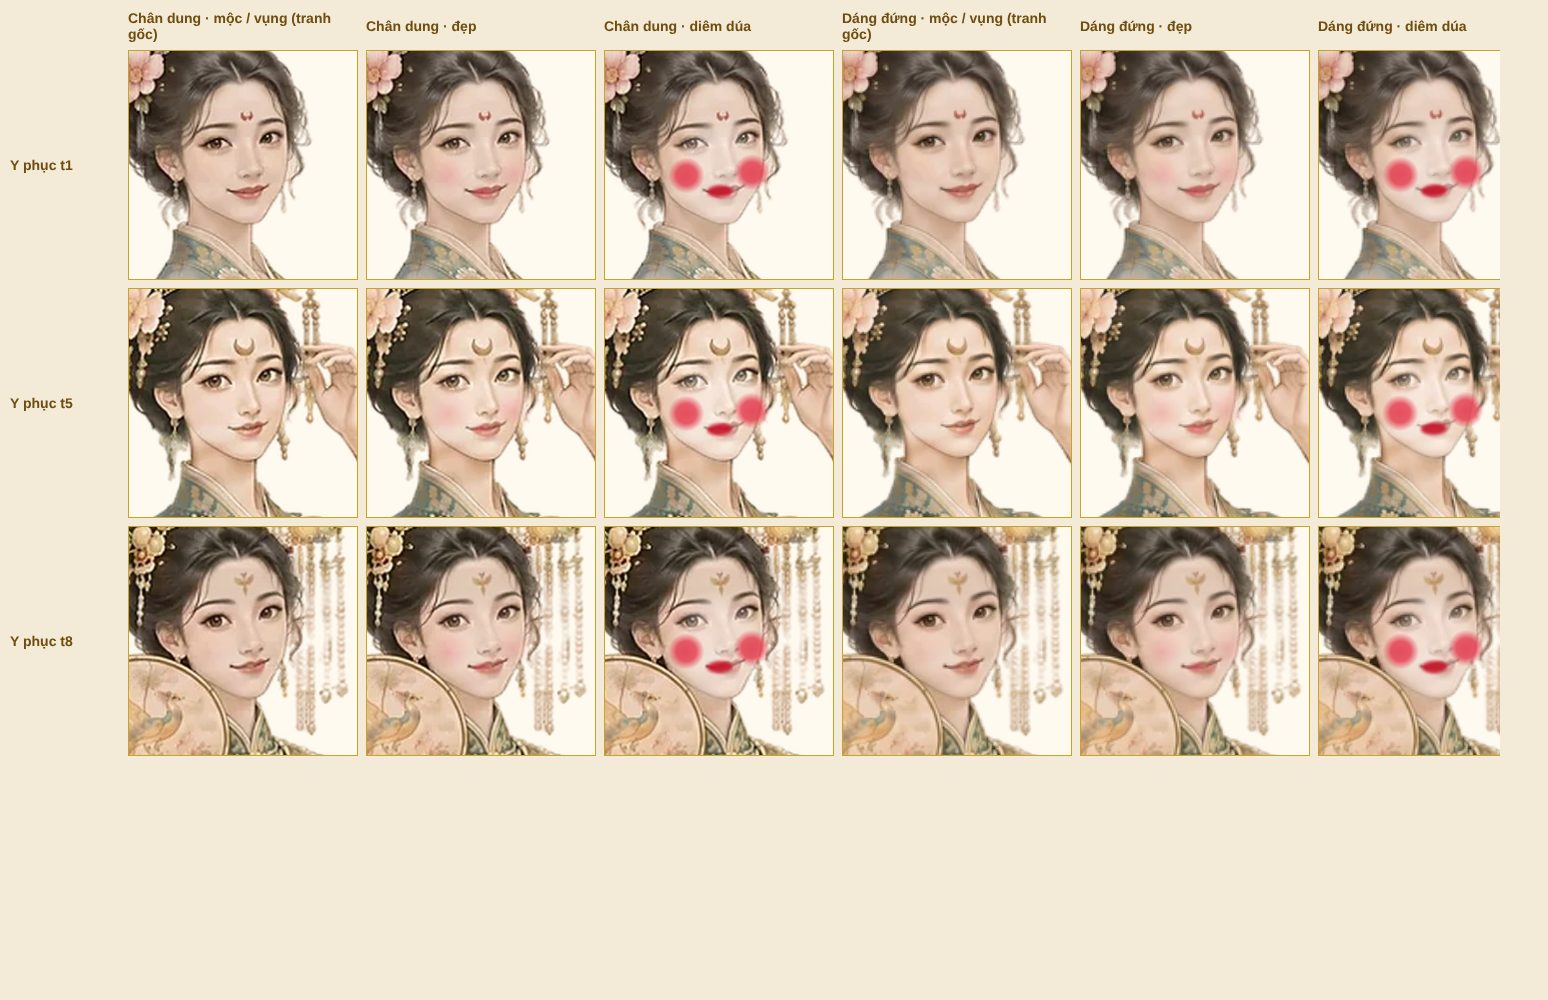
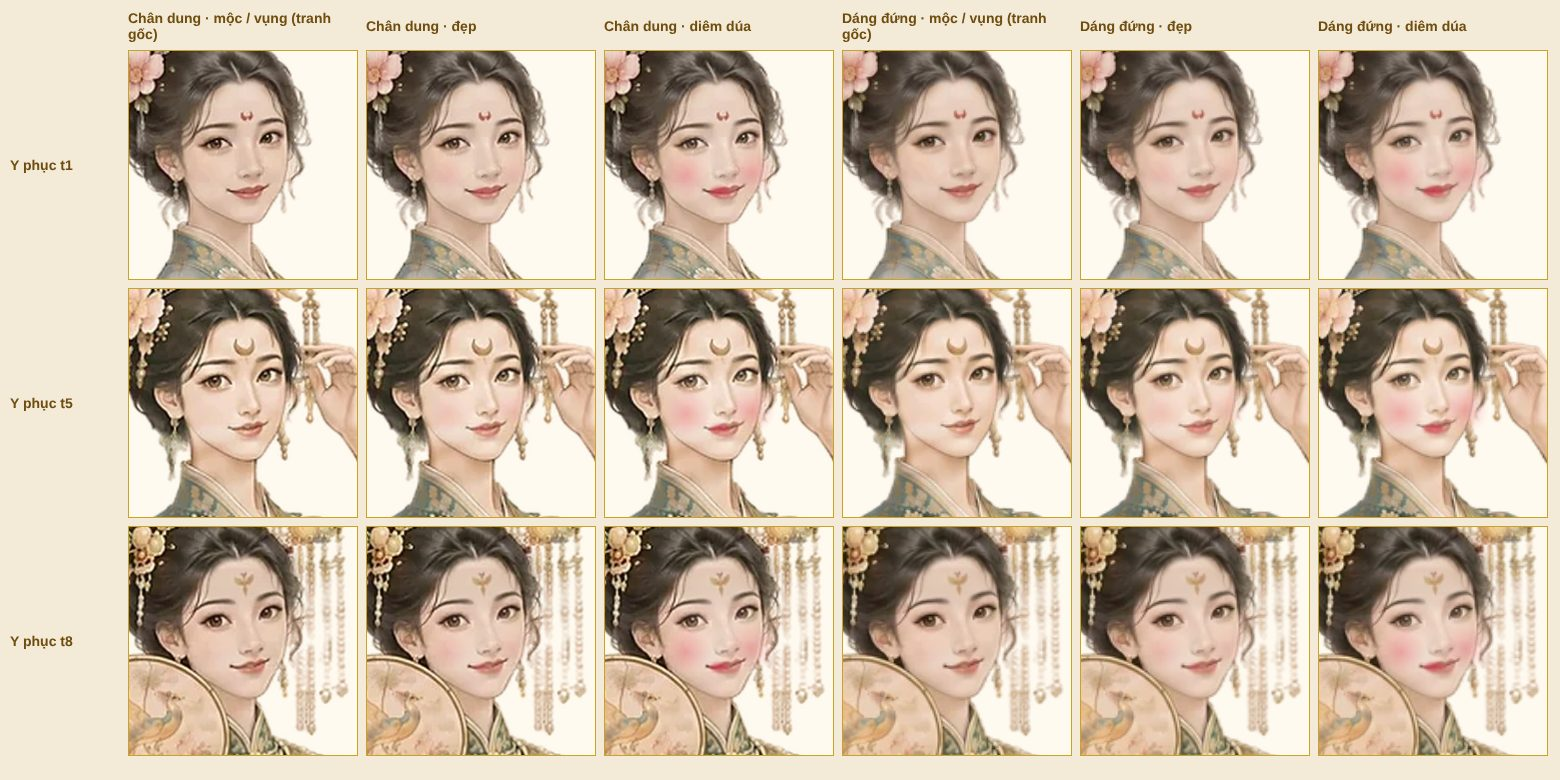
Điểm trang: dung nhan theo ý sếp — 'đẹp' nhẹ tự nhiên, 'diêm dúa' = đẹp đậm hơn chút (không hề hề); tờ mẫu mới; chip ngắn không tràn; chạm chip không mở bảng Tư chất; PROGRESS_toilette, sổ cũ mk-oldsave2, toilfit --extend (t5–t8, lãnh cung)
Claude-Session: https://claude.ai/code/session_01V1ZZH1F24tkuejhCvtXqV8

diff --git a/dev/build/jtoil.js b/dev/build/jtoil.js
@@ -146,16 +146,17 @@ function toilCard(){const occ=toilOcc().map(o=>o.n.toLowerCase()).join(", ");
 (function(){const d0=deal;deal=function(){const r=d0.apply(this,arguments);try{if(Array.isArray(deck)&&toilOn(S)&&(S.buoi||0)===0&&!toilToday(S)&&!deck.some(a=>a.toil))deck.unshift(toilCard())}catch(e){console.error(e)}return r}})();
 /* the chip "Hôm nay: y phục hợp dịp · trang điểm đẹp" (k3 top bar row, from #hud2) */
 function toilChip(){if(!toilOn(S))return null;const rec=toilToday(S);
- if(!rec)return(S.buoi||0)===0?{t:"Hôm nay: chưa điểm trang",c:""}:{t:"Hôm nay: mặt mộc",c:""};
+ if(!rec)return(S.buoi||0)===0?{t:"Chưa điểm trang",full:"Hôm nay: chưa điểm trang",c:""}:{t:"Hôm nay mặt mộc",full:"Hôm nay: mặt mộc",c:""};
  const bad=rec.dv==="giandi"||rec.dv==="photruong"||rec.dv==="vuot"||rec.dv==="tang"||!rec.makeup||toilTier(rec.score)==="vung";
- const mk=rec.makeup?(rec.look==="diem"?"diem":toilTier(rec.score)):"moc";return{t:`Hôm nay: y phục ${TOIL_DV[rec.dv]||"như hôm qua"} · ${rec.makeup?"trang điểm "+TOIL_MK[mk]:"mặt mộc"}`,c:bad||mk==="diem"?"hot":"ok"}}
+ const mk=rec.makeup?(rec.look==="diem"?"diem":toilTier(rec.score)):"moc";const dv=TOIL_DV[rec.dv]||"như hôm qua";return{t:`Y phục ${dv} · ${rec.makeup?"trang điểm "+TOIL_MK[mk]:"mặt mộc"}`,full:`Hôm nay: y phục ${dv} · ${rec.makeup?"trang điểm "+TOIL_MK[mk]:"mặt mộc"}`,c:bad||mk==="diem"?"hot":"ok"}}
 /* the k3 top row (jk3 k3Stage) rebuilds #k3tt from #hud2's state chips (K3_STATE is private to jk3): the chip joins line 1 after each rebuild */
 function toilChipPaint(){try{const tt=document.getElementById("k3tt");if(!tt)return;const l1=tt.querySelector(".k3l1");const c=S&&toilChip();const old=tt.querySelector('[data-k3="toil"]');
- if(!c||!l1){if(old)old.remove();return}const h=`<button type="button" class="k3r ${c.c}" data-k3="toil" title="${c.t} · chạm để xem"><span class="k3l">${c.t}</span></button>`;
+ if(!c||!l1){if(old)old.remove();return}const h=`<button type="button" class="k3r ${c.c}" data-k3="toil" title="${c.full||c.t} · chạm để xem" aria-label="${c.full||c.t}"><span class="k3l">${c.t}</span></button>`;
  if(old&&old.outerHTML===h)return;if(old)old.remove();l1.insertAdjacentHTML("beforeend",h)}catch(e){}}
 (function(){let mo=null;const hook=()=>{const tt=document.getElementById("k3tt");if(!tt||mo)return;mo=new MutationObserver(()=>{if(!tt.querySelector('[data-k3="toil"]'))toilChipPaint()});mo.observe(tt,{childList:true,subtree:true})};
  if(typeof renderHUD==="function"){const r0=renderHUD;renderHUD=function(){const r=r0.apply(this,arguments);hook();toilChipPaint();return r}}})();
-document.addEventListener("click",e=>{const b=e.target.closest&&e.target.closest('[data-k3="toil"],[data-hx="toil"]');if(!b)return;e.stopImmediatePropagation();e.preventDefault();
+/* on window (capture): jk3's own top-row click handler is a document capture listener registered earlier */
+window.addEventListener("click",e=>{const b=e.target.closest&&e.target.closest('[data-k3="toil"],[data-hx="toil"]');if(!b)return;e.stopImmediatePropagation();e.preventDefault();
  if(toilCanStart()){const i=Array.isArray(deck)?deck.findIndex(a=>a&&a.toil&&!a.done):-1;if(i>=0){act(i);return}if(!can(BAL.toil.khac))return;spend(BAL.toil.khac);toilOpen();return}
  const rec=toilToday(S);try{kpPop(b,rec?`<p>Sáng nay ta điểm trang: y phục ${TOIL_DV[rec.dv]}, ${rec.makeup?"trang điểm "+TOIL_MK[toilTier(rec.score)]+" ("+rec.score+" phần)":"để mặt mộc"}.</p><p class="past">Người gặp ta hôm nay nhìn theo nết mình; thẻ việc ghi trước.</p>`
   :`<p>Hôm nay ta chưa điểm trang: mặc như hôm qua, mặt mộc.</p><p class="past">Mỗi buổi sáng có việc “Điểm trang” trong Hành sự (1 khắc).</p>`)}catch(x){}},true);
@@ -311,8 +312,9 @@ window.toilOpen=toilOpen;window.toilDress=toilDress;window.toilFx=toilFx;window.
 const TOIL_FIT={url:"img/toil-fit.json",fit:null,_ld:0,load(){if(this.fit||this._ld)return;this._ld=1;try{fetch(this.url).then(r=>r.ok?r.json():null).then(j=>{if(j){TOIL_FIT.fit=j;try{if(typeof S!=="undefined"&&S&&!Q.length)render()}catch(e){}}}).catch(()=>{})}catch(e){}}};
 try{TOIL_FIT.load()}catch(e){}
 const TOIL_LOOKS={
- dep:{skin:[255,250,244,.17,.62],blush:[238,120,138,.30,.17,.0],lip:[206,52,72,.42,.075,.034],powder:0},
- diem:{skin:[255,255,255,.34,.6],blush:[226,38,62,.78,.15,.55],lip:[196,8,36,.88,.105,.05],powder:1}};
+ /* owner 15/11 on the sheet: "đẹp" subtle and natural; "diêm dúa" = the old đẹp a little stronger (pretty, just noticeably overdone, never a clown) */
+ dep:{skin:[255,250,244,.13,.62],blush:[238,128,144,.21,.165,0],lip:[206,60,80,.33,.072,.032],powder:0},
+ diem:{skin:[255,252,248,.24,.64],blush:[236,104,124,.40,.20,0],lip:[198,40,64,.56,.084,.038],powder:0}};
 function toilLookOfP(p){try{if(p!==S||!S)return null;const r=toilToday(S);return r&&r.makeup&&r.look?r.look:null}catch(e){return null}}
 const TOIL_SVGC={};
 function toilMakeupSvg(file,look){const L=TOIL_LOOKS[look];const v=TOIL_FIT.fit&&TOIL_FIT.fit[file];if(!L||!v)return"";const key=file+"|"+look;if(TOIL_SVGC[key])return TOIL_SVGC[key];

diff --git a/dev/test/toilette.js b/dev/test/toilette.js
@@ -24,13 +24,13 @@ fs.mkdirSync(DIR,{recursive:true});
  out.before=await cardTxt();
   await p.screenshot({path:`${DIR}/toil-${tag}-0-morning.jpg`,quality:70});
  /* 2. tap the chip → the dress game */
- await p.click('#k3tt [data-k3="toil"]');await p.waitForSelector('#kg82 .toilw');await p.waitForTimeout(900);
+ await p.click('#k3tt [data-k3="toil"]');await p.waitForSelector('#kg82 .toilw');await p.waitForFunction(()=>[...document.querySelectorAll('#kg82 img')].every(i=>i.complete),null,{timeout:90000}).catch(()=>{});await p.waitForTimeout(600);
  await p.screenshot({path:`${DIR}/toil-${tag}-1-dress.jpg`,quality:70});
  /* put on something from the bag if any (tap the first non-worn item) */
  out.bag=await p.evaluate(()=>document.querySelectorAll('#kg82 [data-kinvkey="toil"][data-kinvi]').length);
  await p.click('#toilok');await p.waitForTimeout(400);out.dress=await p.evaluate(()=>TOIL.st&&TOIL.st.dv);
  await p.screenshot({path:`${DIR}/toil-${tag}-2-verdict.jpg`,quality:70});
- await p.evaluate(()=>{TOIL.clock=+(new URLSearchParams(location.search).get('clock')||12)});await p.click('#toilmk');await p.waitForTimeout(1200);
+ await p.evaluate(()=>{TOIL.clock=+(new URLSearchParams(location.search).get('clock')||12)});await p.click('#toilmk');await p.waitForFunction(()=>{const i=kg82Img('chai-bg');return i.complete&&i.naturalWidth},null,{timeout:90000}).catch(()=>{});await p.waitForTimeout(2500);
  /* 3. kẻ mày: drag along each guide */
  const geo=await p.evaluate(()=>({b:TOIL.geo.brows()}));
  for(const L of geo.b){await p.mouse.move(L[0].x,L[0].y);await p.mouse.down();for(const q of L.filter((_,i)=>i%2===0||i===L.length-1))await p.mouse.move(q.x,q.y,{steps:2});await p.mouse.up()}
@@ -60,6 +60,6 @@ fs.mkdirSync(DIR,{recursive:true});
  /* 5. skipping does not block: next buổi with no toilette */
  out.skip=await p.evaluate(()=>{S.toilette=null;const b=S.buoi;try{nextBuoi()}catch(e){return 'err '+e.message}return {from:b,to:S.buoi,q:Q.length}});
  /* 6. old save loads */
- if(OLD){const txt=fs.readFileSync(OLD,'utf8');out.old=await p.evaluate(t=>{try{deser(t);render();return{ok:!!S,turn:S.turn,chip:typeof toilChip==='function'?toilChip():null,card:deck.some(a=>a.toil)}}catch(e){return 'err '+e.message}},txt)}
+ if(OLD){const txt=fs.readFileSync(OLD,'utf8');out.old=await p.evaluate(t=>{try{quiet=true;deser(JSON.parse(t));quiet=false;Q.length=0;S.buoi=0;used=0;deal();render();return{ok:!!S,turn:S.turn,chip:typeof toilChip==="function"?toilChip():null,card:deck.some(a=>a.toil),look:toilLookOfP(S)}}catch(e){return 'err '+e.message}},txt)}
  out.overflow=await p.evaluate(()=>document.documentElement.scrollWidth>innerWidth+1);
  out.errs=errs;console.log(JSON.stringify(out,null,1));await b.close()})().catch(e=>{console.error(e);process.exit(1)});

diff --git a/dev/test/mk-oldsave2.js b/dev/test/mk-oldsave2.js
@@ -1,0 +1,10 @@
+/* an OLD save (a build without the module under test): start a consort life, play a few buổi, write ser() to <out.json>.
+   usage: node dev/test/mk-oldsave2.js <url of the old build> <out.json> */
+const {chromium}=require('playwright');const fs=require('fs');const [,,URL,OUT]=process.argv;
+(async()=>{const b=await chromium.launch();const ctx=await b.newContext({viewport:{width:755,height:1000},serviceWorkers:'block'});await ctx.route(u=>/ctmload=1/.test(String(u)),r=>r.abort());const p=await ctx.newPage();
+ const errs=[];p.on('pageerror',e=>errs.push(e.message));await p.goto(URL,{waitUntil:'domcontentloaded'});await p.waitForFunction(()=>typeof start==='function');
+ await p.evaluate(()=>{try{localStorage.clear()}catch(e){}document.getElementById('title').hidden=true;new MutationObserver(()=>document.querySelectorAll('.kroul,#kload').forEach(e=>e.remove())).observe(document.body,{childList:true})});
+ for(let i=0;i<15;i++){await p.evaluate(()=>{window.S0=typeof S!=='undefined'?S:null;try{store.set(NL_KEY,null)}catch(e){}start()});await p.waitForFunction(()=>typeof S!=='undefined'&&S&&S!==window.S0&&S.origin,null,{timeout:60000});
+  if(await p.evaluate(()=>S.origin.k!=='cnv'&&!isSrv()))break}
+ const d=await p.evaluate(()=>{Q.length=0;S.inv.push({k:'nhansam'});for(let i=0;i<3;i++){Q.length=0;try{nextBuoi()}catch(e){}}Q.length=0;return JSON.stringify(ser())});
+ fs.writeFileSync(OUT,d);console.log(JSON.stringify({len:d.length,errs:errs.slice(0,3)}));await b.close()})();

diff --git a/dev/figwork/toilfit.py b/dev/figwork/toilfit.py
@@ -132,6 +132,9 @@ def extend():
     idx = json.loads(get(BASE + "_index.json"))
     files = set(f[0][4:] for f in idx["files"])
     pors = sorted(f for f in files if re.match(r"por-(consort|maid)-", f) and f not in out)
+    # the player's own pictures first: consort faces in consort dress (t5–t8 above the measured t1–t4) and lãnh cung; "--all" adds cung nữ dress,
+    # origin pictures (kc/ngheo) and the maid identities
+    if "--all" not in sys.argv: pors = [f for f in pors if re.match(r"por-consort-c\d+-t([5-8]|cold)-a\d+\.webp$", f)]
     only = sys.argv[sys.argv.index("--only") + 1] if "--only" in sys.argv else None
     if only: pors = [f for f in pors if only in f]
     keys0 = [k for k in out if k.startswith("por-")]   # measured portraits (snapshot: the pool threads must not read `out` while it grows)

diff --git a/dev/PROGRESS_toilette.md b/dev/PROGRESS_toilette.md
@@ -1,0 +1,31 @@
+# PROGRESS · review/toilette (Điểm trang buổi sáng) — sếp 15/11 09:30Z + điều phối (dung nhan trên mặt cả ngày)
+
+Nhánh từ origin/main 14967f899 + gộp review/act-audit 8654bc57c (leAttire / BAL.thieuLe, jaudit §16–17). Module mới: `dev/build/jtoil.js`
+(sau jaudit, trước j84). Số trong `BAL.toil`. KIT §13.3 (chờ duyệt kit), KIT 13.1 thêm 3 mảnh rời `mg-chai-brow|puff|rouge` (gpt-2-6, CDN).
+
+## Đã làm
+- Buổi sáng: thẻ "Điểm trang" đầu Hành sự (1 khắc, chắc) + chip trên thanh đầu (`[data-k3="toil"]`, chạm = bắt đầu / xem). Không bắt buộc, không chặn.
+  Bỏ qua = mặc như hôm qua, mặt mộc.
+- Hồi 1 CHỌN Y PHỤC: chân dung nàng trong bộ đang mặc (tranh theo bậc áo), dịp hôm nay (thỉnh an Thái hậu/Hoàng hậu, lễ tết, thị tẩm),
+  kitEquipSlots + kitInvGrid (cùng đồ Tư trang). Phán: hợp dịp / hợp phẩm / quá giản dị / quá phô trương / vượt phẩm / phạm tang (j92 phẩm + jinv xa xỉ).
+- Hồi 2–4 TRANG ĐIỂM trên mặt nàng trong gương đồng (`mg-chai-bg`): kẻ mày theo đường (độ phủ × độ lệch), đánh phấn đều (mỗi điểm trong khoảng lý tưởng;
+  dày quá = diêm dúa), chấm son khi vòng khép vừa môi (nhịp × vị trí). Tay nghề Họa/Sắc/ma ma tinh ý nới dung sai + cộng phần (≤ 20). Đồng hồ mỗi hồi chạy từ lần chạm đầu.
+- Ảnh hưởng (leAttire mở rộng, `toilFx`): theo nết chủ nhà (trọng lễ / chuộng giản dị / hay ghen / thường; Hoàng thượng theo `LIKES.dress` mới — biết qua "Nói thật lòng").
+  Thẻ thỉnh an / gặp Hoàng thượng ghi trước (Được/Mất + Vì sao); một lần mỗi người mỗi ngày. Phi tần gặp mặt: ghen khi phô trương / dung nhan tuyệt mỹ,
+  khen giản dị, cười diêm dúa. Thỉnh an Hoàng hậu: cả hậu cung thấy. NPC cùng luật (`toilNpc`, dữ liệu theo nết + Sắc) khi hầu Thái hậu.
+- Dung nhan TRÊN MẶT cả ngày (điều phối 15/11): lớp SVG trong khe hiệu ứng mặt của kit (`kitFxLayers`: khung lớn, ảnh nhỏ, dáng đứng trên sân khấu),
+  điểm mốc `img/toil-fit.json` (bản sao `dev/art/toil-fit.json`), dựng bằng `python3 -I dev/figwork/toilfit.py` (+ `--extend` cho bậc t5–t8, lãnh cung).
+  3 dáng: tranh gốc / đẹp (má hồng, son nhạt, da sáng) / diêm dúa (phấn trắng trán–sống mũi–cằm, má đỏ loang theo gò má, môi tô quá viền).
+- Bot (`window.__bot`): tự điểm trang trung bình (giữ đồ, dung nhan theo tay nghề ± may). `dev/test/bot-same.js` sửa để chạy được trên main mới
+  (đợi S, bỏ trò nhỏ dở, jload không chạy).
+
+## Kiểm
+- `node dev/test/toilette.js <url> <WxH@dpr> <dir> [oldsave.json]` (chơi thật bằng chuột, `TOIL.clock` giãn đồng hồ cho máy chậm),
+  `node dev/test/toil-looks.js <url> <out.jpg> [c05] [t1,t5,t8]` (tờ mẫu 3 dung nhan), `node dev/test/mk-oldsave2.js` (sổ cũ).
+- Ảnh: `dev/shots/toilette/`.
+
+## Còn lại / ghi chú
+- Mặt quay nghiêng mạnh: má xa có thể chờm mép mặt (điểm má đối xứng quanh miệng).
+- `toilfit.py --extend --all`: thêm áo cung nữ, kc/ngheo, mặt cung nữ m* (chưa chạy; nàng khi là phi tần không dùng).
+- Báo thợ act-audit: leAttire của jaudit so `p.toilette.day === S.turn*10+S.buoi` (theo buổi, mà S.turn là tháng); jtoil dùng `p.toilette.wk === wk()`
+  (một ngày = một tuần-ngày) và gọi jaudit với toilette ẩn đi, rồi cộng phần dung nhan (r.toil). `p.toilette.style` = plain|fit|showy, `.look` = dep|diem|null.

diff --git a/dev/kit/KIT.md b/dev/kit/KIT.md
@@ -440,7 +440,8 @@ No text over text: a pop (`kg82Pop`) replaces any live pop it would land on; a r
 - Face look all day (owner 15/11): one layer in the face-effects slot `kitFxLayers` (jk2b §7 — tall frame, small avatar, stage figures; same box as
   the picture, order portrait < makeup < scar < veil): `<img class="kmk kmk-dep|kmk-diem">` = an SVG drawn from `img/toil-fit.json`
   (mouth + both cheeks + face size per por-/fig- picture, `dev/figwork/toilfit.py`). Looks: none (mộc / vụng / vừa), `dep` (rosy feathered cheeks,
-  light lip tint, brighter skin), `diem` diêm dúa (round strong blush, heavy red lips, powdery white face) — presets `TOIL_LOOKS`. Only her face.
+  light lip tint, brighter skin), `diem` diêm dúa (owner 15/11: the same painted layer a little stronger — deeper, wider rouge, bolder lip tint, a little more powder sheen;
+  pretty, noticeably overdone, never clownish) — presets `TOIL_LOOKS`. Only her face. Sheet: `node dev/test/toil-looks.js`.
 
 ## 14. SCENE PANEL (j79) — identity card, opening story, title screen
 - Compact translucent kit frame (`rgba(255,250,240,.90)` + blur) to one side in landscape (max 440 px / 44vw, vertically centred, right) and in the
